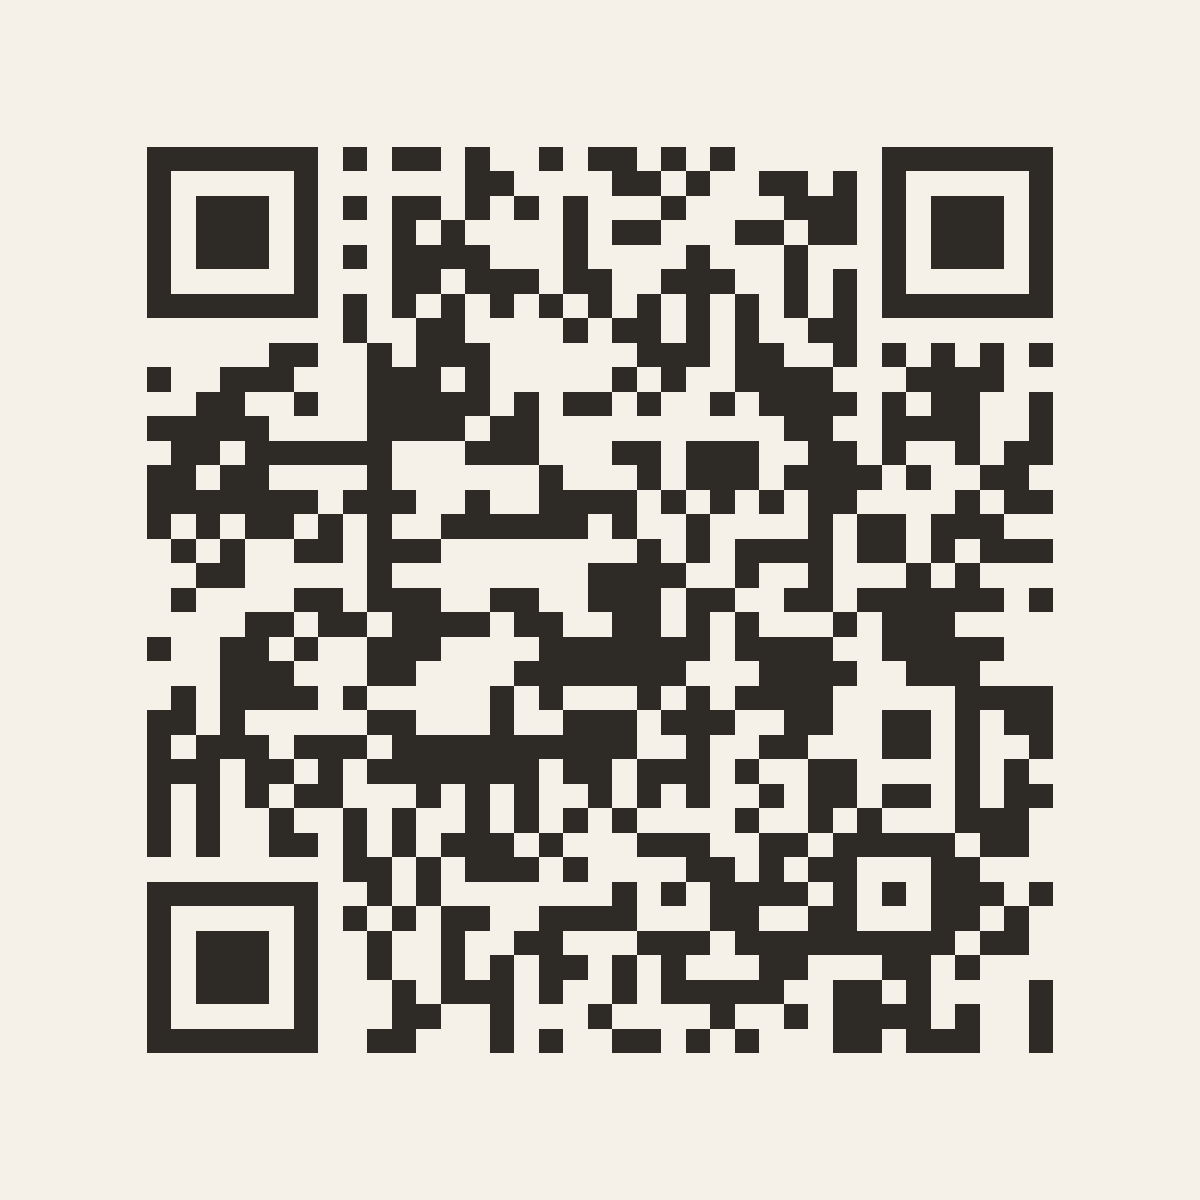
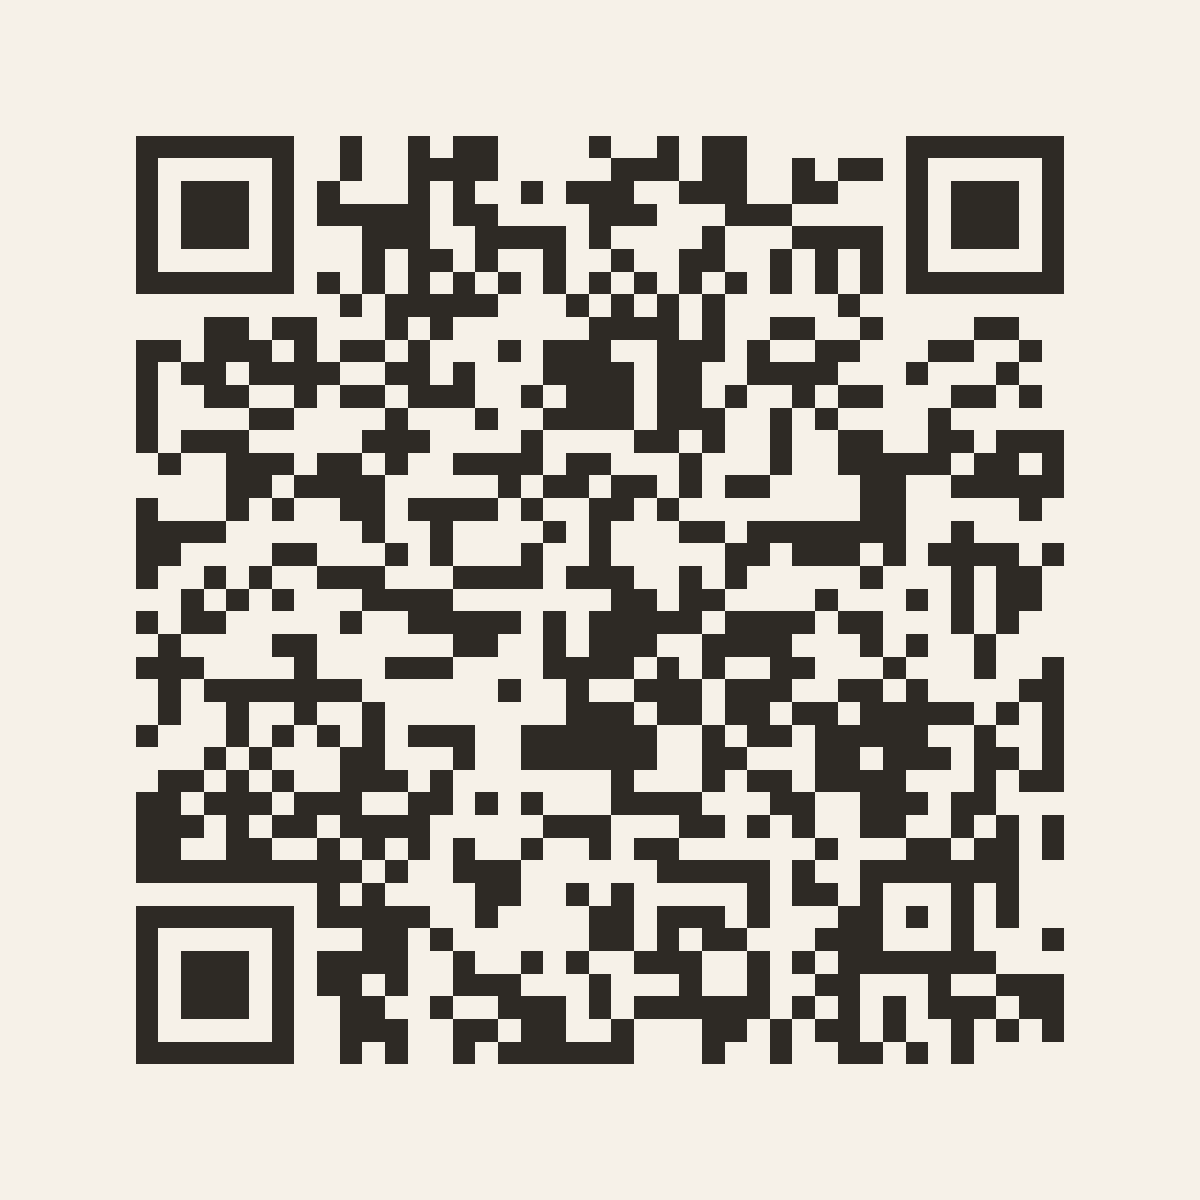
chore(publish): 二维码/分享卡改指向新线上链接
旧链接 soft-life-shop.app.workbuddy.host 的运行环境平台没法复用，重新发布只能新建应用，
新链接 https://soft-life-shop-18918.app.workbuddy.host/（已验证拿到新 bundle + 新图 200）。
- makeQR.py 的 URL 改成新链接并重跑三张图。
- verify-qr.py 的 URL 常量**也必须一起改** —— 没改之前报「11 项全红，但解出来的链接看起来是对的」，
  因为它拿解码结果跟旧的期望值比。现在 14/14 过。

diff --git a/tools/verify-qr.py b/tools/verify-qr.py
@@ -19,7 +19,12 @@ from PIL import Image
 
 ROOT = Path(__file__).resolve().parent.parent
 OUT = ROOT / "发布"
-URL = "https://soft-life-shop.app.workbuddy.host/"
+URL = "https://soft-life-shop-18918.app.workbuddy.host/"
+
+# ⚠ 这个常量和 tools/makeQR.py 里的 URL **必须一致** —— 换链接时两处一起改。
+#    不一致的表现是「11 项全红、但解出来的链接看起来是对的」（2026-09-21 踩过）：
+#    断言是拿解码结果跟这里比，所以这里没改就等于在验旧链接。
+#    （不写成 import makeQR.URL：那个模块顶层就会重新生成图，import 会有副作用。）
 
 ok_n = 0
 bad_n = 0

diff --git a/tools/makeQR.py b/tools/makeQR.py
@@ -22,7 +22,10 @@ from qrcode.constants import ERROR_CORRECT_H
 
 ROOT = Path(__file__).resolve().parent.parent
 OUT = ROOT / "发布"
-URL = "https://soft-life-shop.app.workbuddy.host/"
+# ⚠ 2026-09-21 换了链接：旧链接（soft-life-shop.app.workbuddy.host）的运行环境
+#    平台没法复用，重新发布时只能新建应用 → 新域名多了一段数字。
+#    改链接时这里、MEMORY.md、skill 三处要一起改，改完**必须重跑本脚本 + 解码验一次**。
+URL = "https://soft-life-shop-18918.app.workbuddy.host/"
 
 PAPER = (246, 241, 232)          # --bg-base
 INK = (46, 42, 37)               # --ink-print
